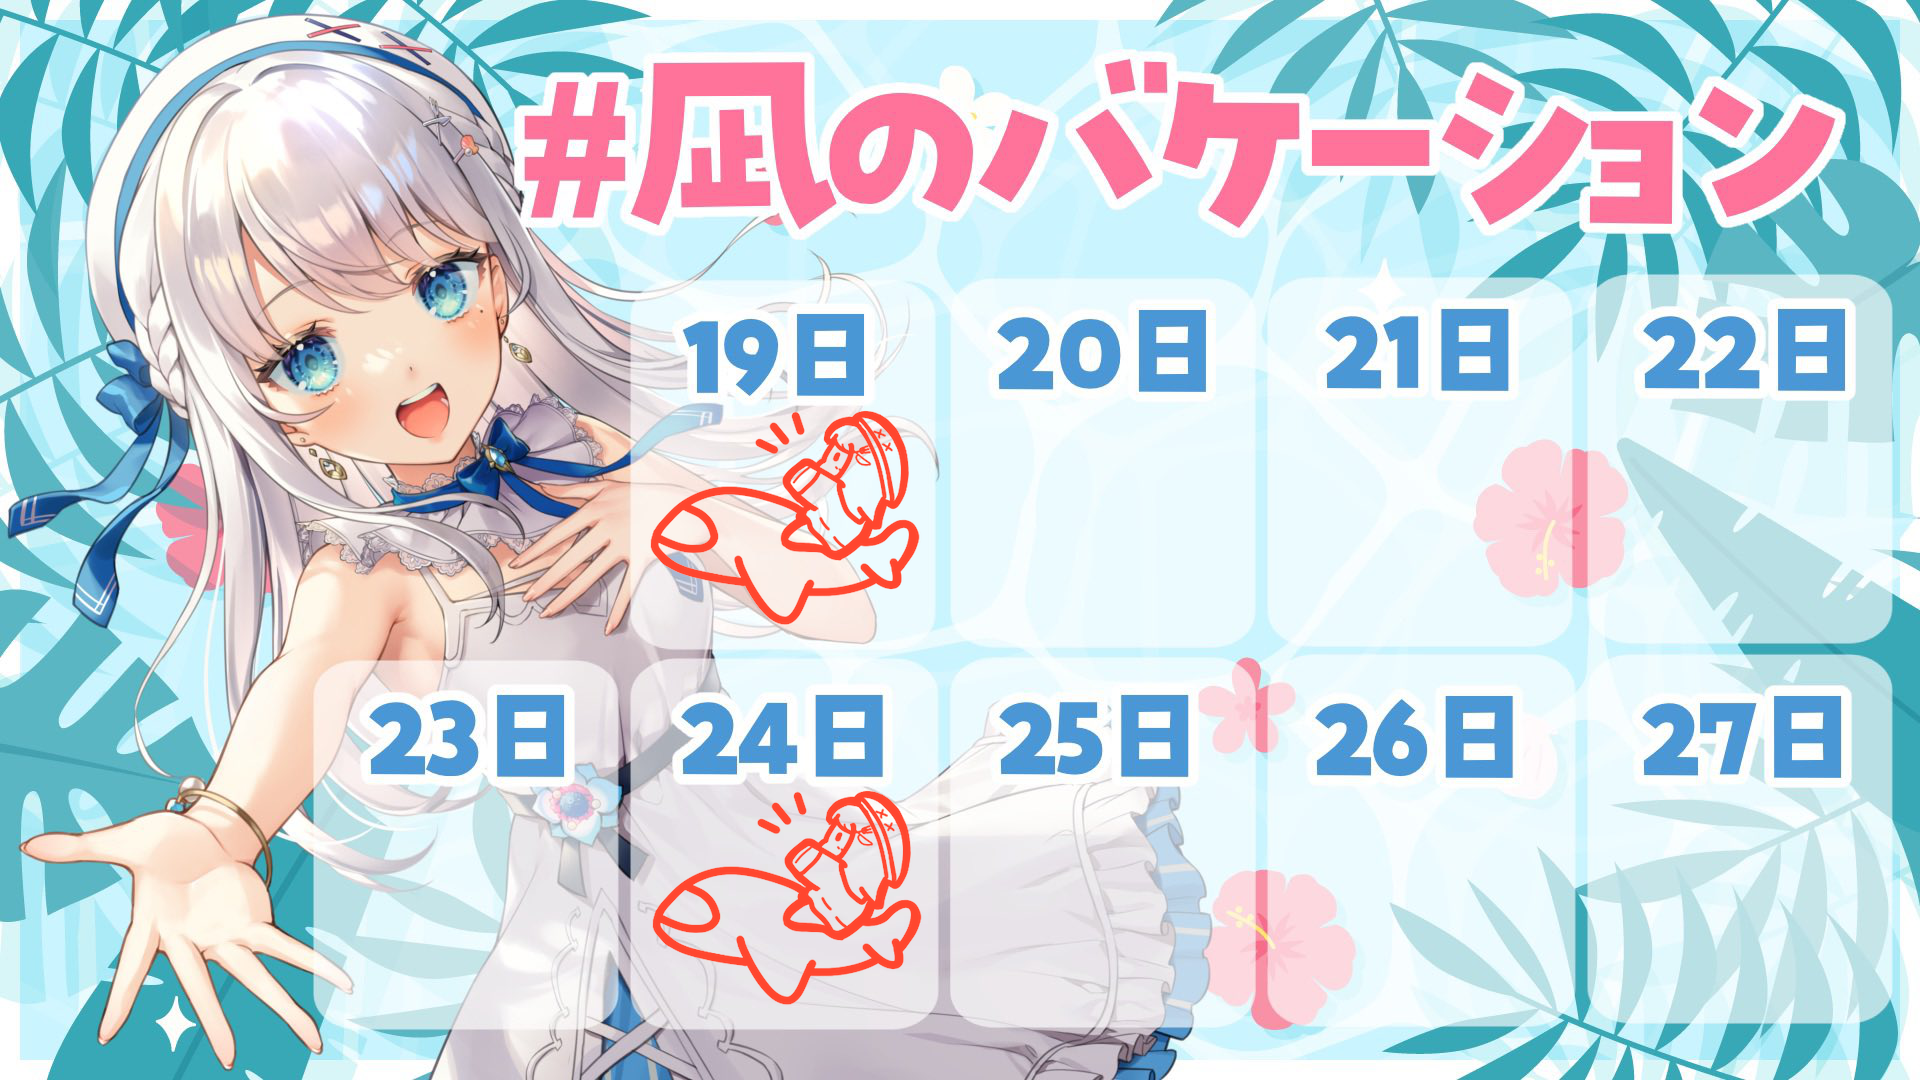
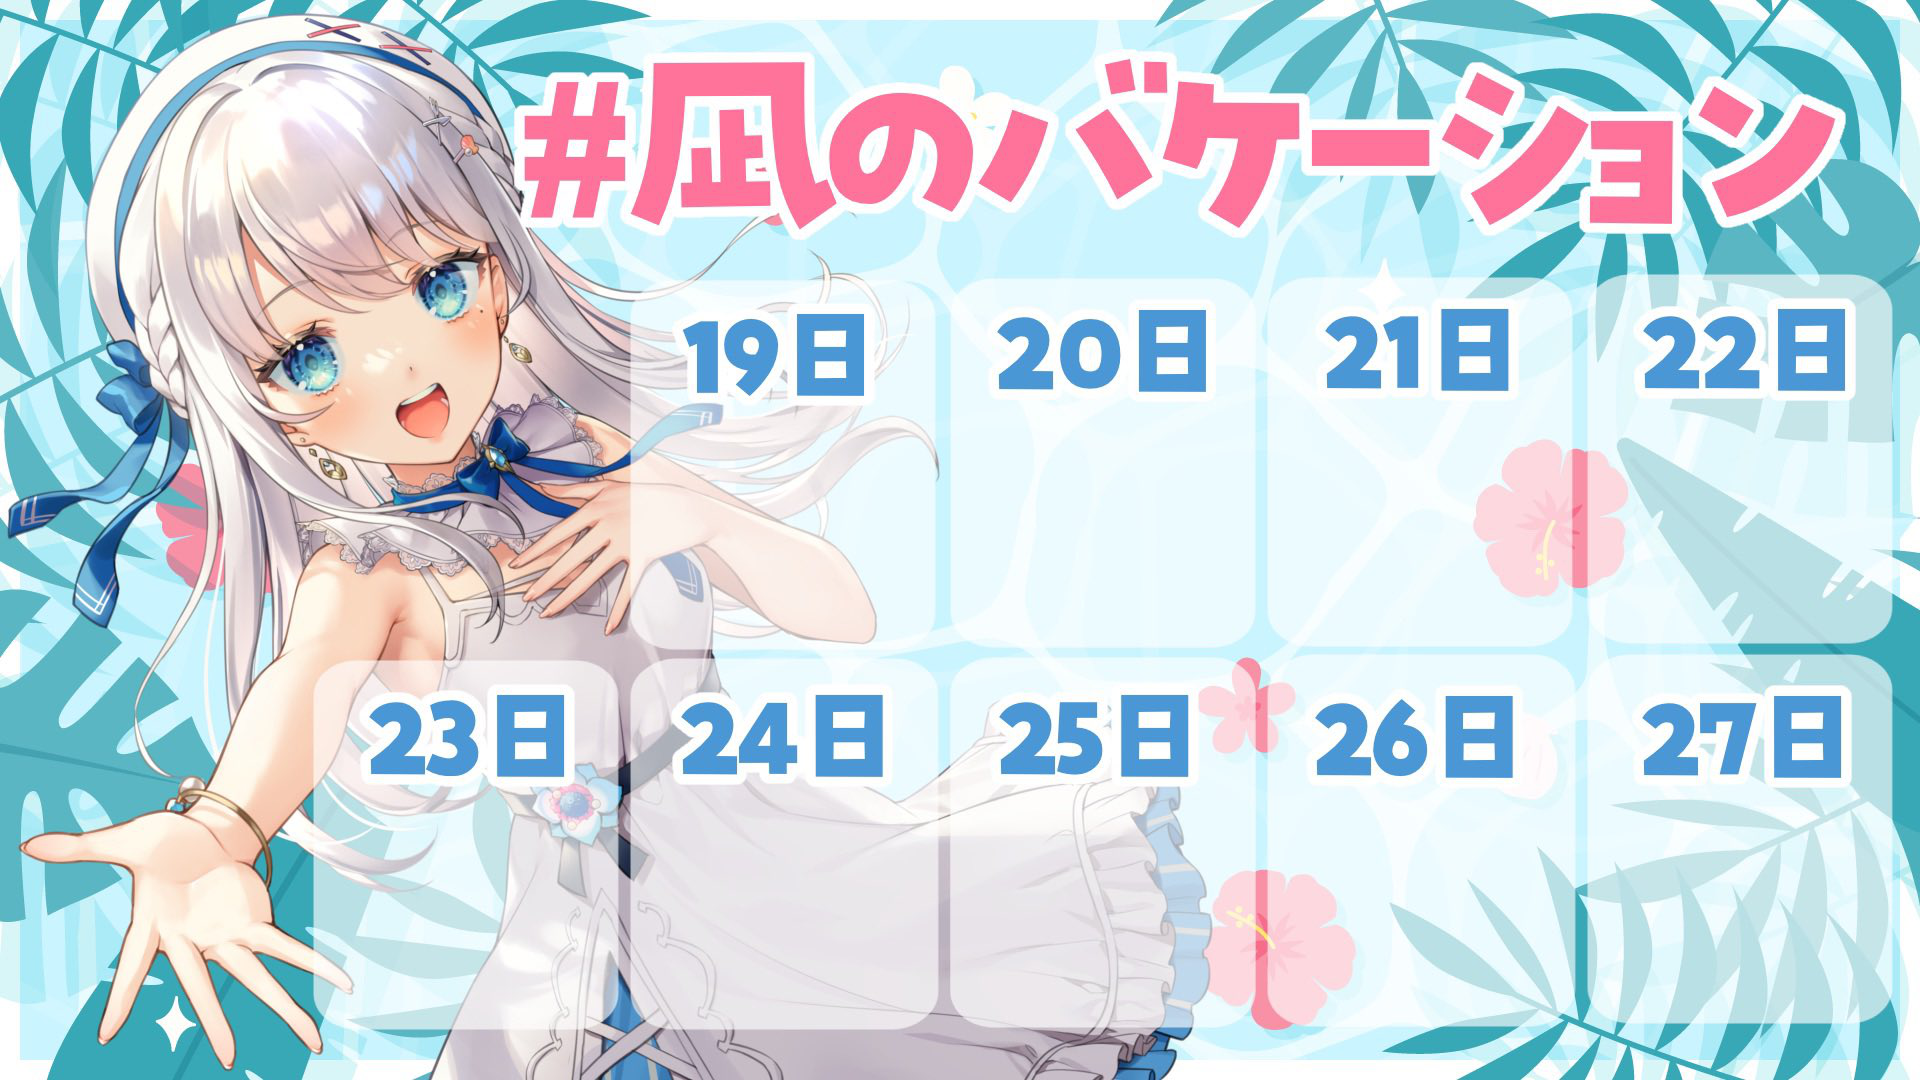
ツイートを手動で追加できるようにする

Changed region(s): [[0.3125, 0.3667, 0.5, 0.5806], [0.3438, 0.7333, 0.5, 0.9472]]

diff --git a/templates/index.html b/templates/index.html
@@ -32,7 +32,7 @@
       <a href="/logout" class="btn btn-danger col-md-3">ログアウト</a>
     </div>
   </form>
-  <form action="/add-dates" class="container py-3">
+  <form action="/add_dates" method="POST" class="container py-3">
     <h3>補足</h3>
     <p>
       ※ツイートをしたのにスタンプが押されていない！という方へ。

diff --git a/mashiro-calender.py b/mashiro-calender.py
@@ -53,16 +53,43 @@ def calender():
   )
   tweets = response.data
   
-  dates = set()
+  dates = set(session.get('dates') or [])
   for tweet in tweets:
     if tweet.created_at.day in CALENDER_DATES:
       dates.add(tweet.created_at.day)
-  dates = list(dates)
 
-  CalenderGenerator().create_calender([20, 23])
-  session['dates'] = list(set(session.get('dates') or [] + dates))
-  
+  dates = list(dates)
+  session['dates'] = dates
+
+  CalenderGenerator().create_calender(dates)
   image = GyazoSender.send('assets/images/calender.png')
+  
+  return redirect(f'/?image={image.url}')
+
+@app.route('/add_dates', methods=['POST'])
+def add_dates():
+  link = request.form.get('tweet')
+  tweet_id = link.split('/')[-1]
+  response = client.get_tweet(
+    tweet_id,
+    expansions=['author_id'],
+    tweet_fields=['created_at']
+  )
+
+  user_id = response.includes.get('users')[0].id
+  created_at = response.data.created_at.day
+  
+  dates = set(session.get('dates') or [])
+  
+  if str(user_id) == session.get('user_id') and created_at in CALENDER_DATES:
+    dates.add(created_at)
+  
+  dates = list(dates)
+  session['dates'] = dates
+
+  CalenderGenerator().create_calender(dates)
+  image = GyazoSender.send('assets/images/calender.png')
+
   return redirect(f'/?image={image.url}')
 
 @app.route('/sign_in')
